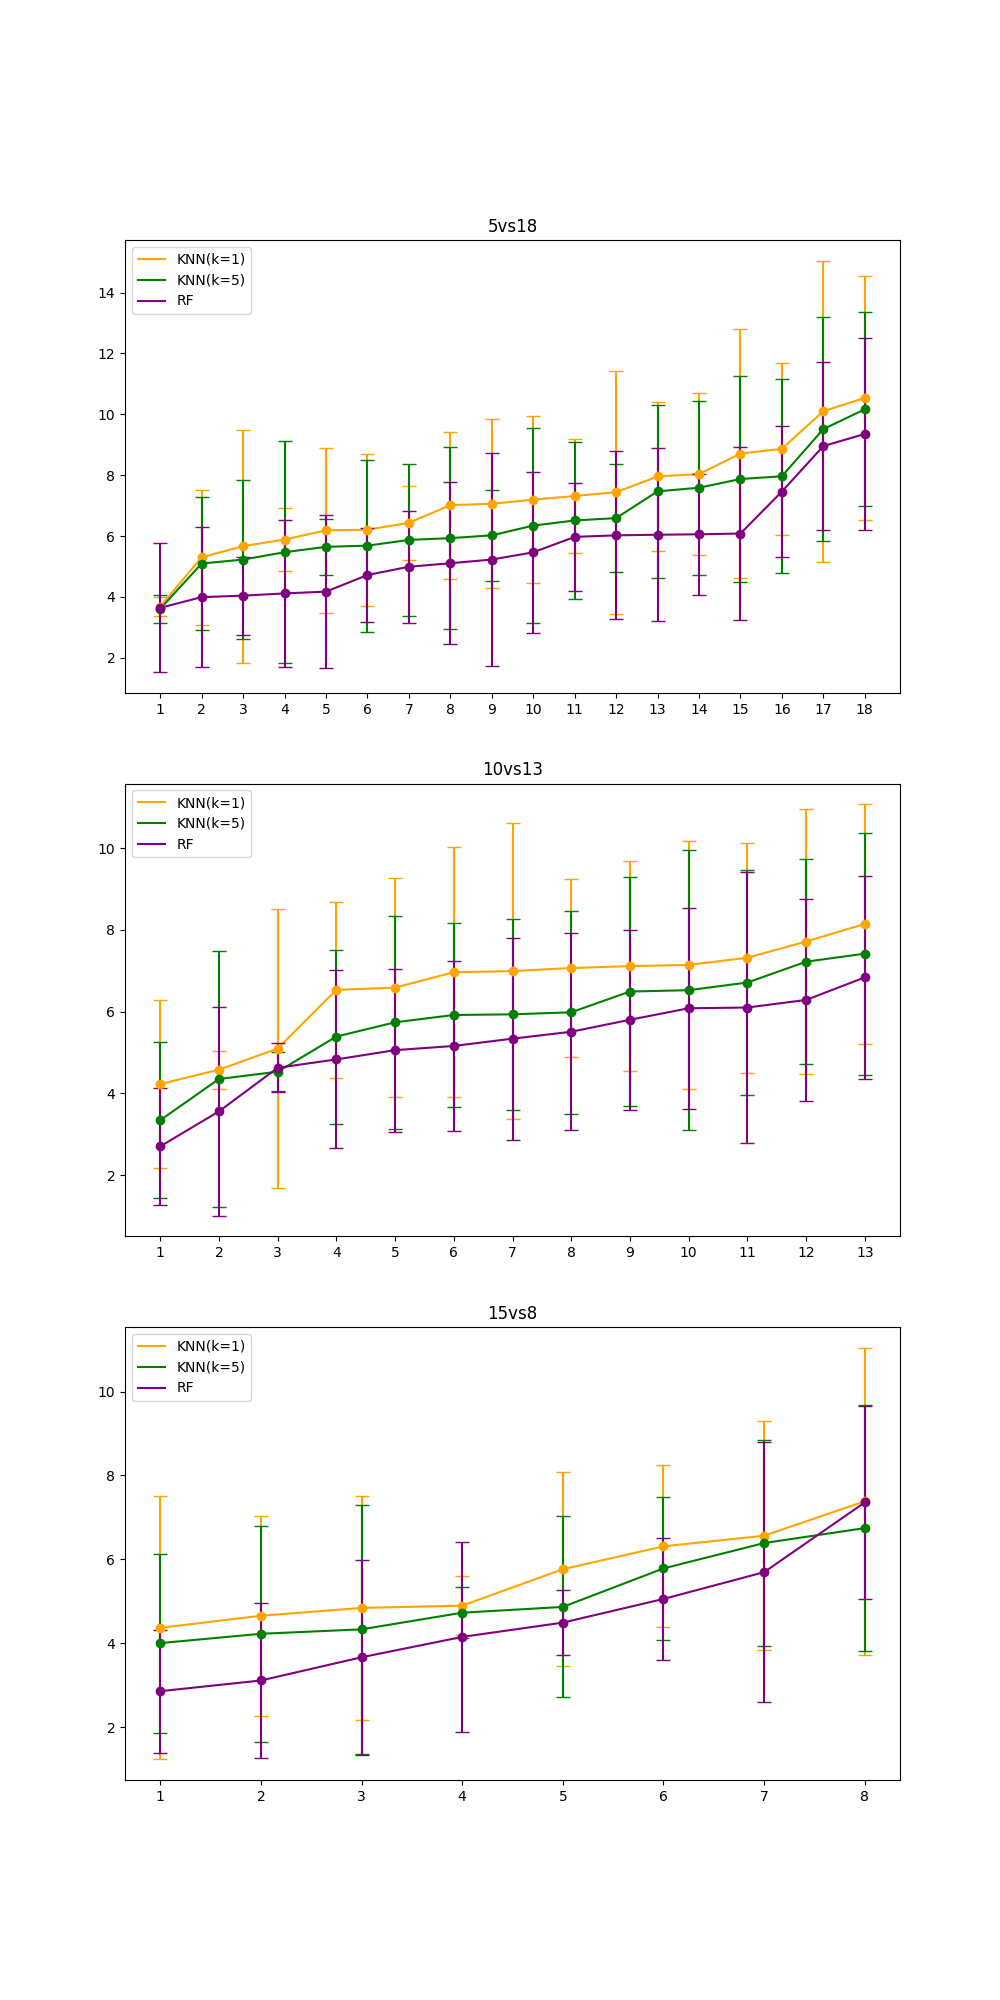
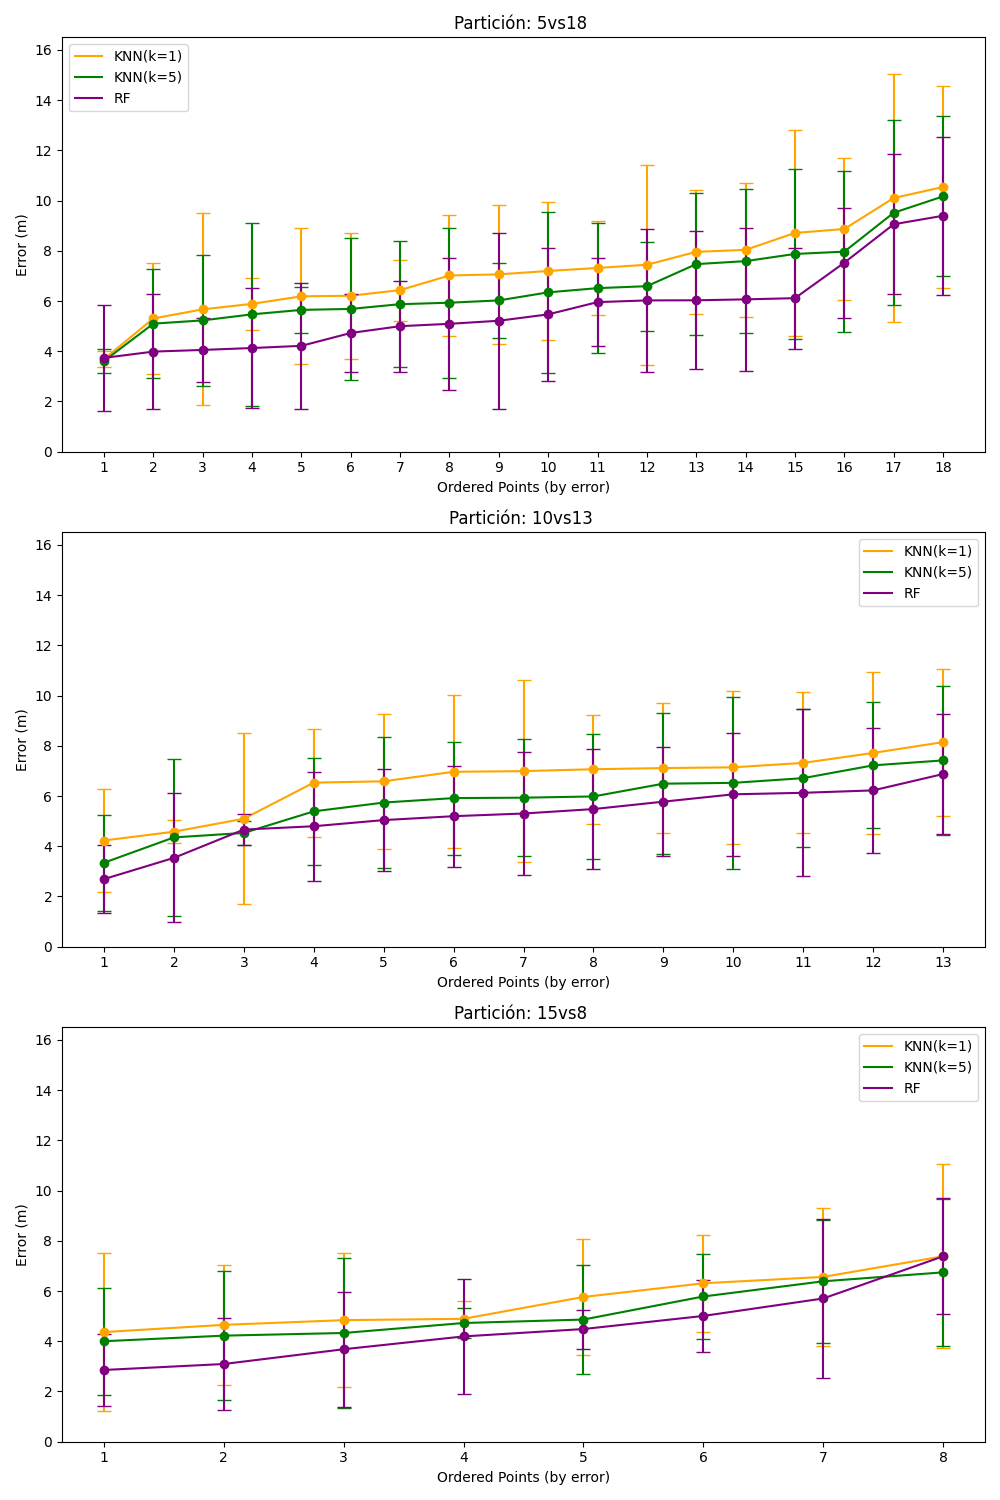
scaled ylim on errorbar metrics plot

diff --git a/models/cGAN_28_28.py b/models/cGAN_28_28.py
@@ -74,6 +74,49 @@ def define_generator(latent_dim=100, n_classes=7):
     model = Model([input_latent, input_label], out, name="generator")
     return model
 
+# def define_discriminator(input_shape=(28, 28, 1), n_classes=7):
+#     input_label = Input(shape=(1,), name="input_label")
+#     lab = Embedding(n_classes, 50)(input_label)
+#     lab = Dense(input_shape[0] * input_shape[1] * 1)(lab)
+#     input_image = Input(shape=input_shape, name="input_image")
+#     flatten_image = Flatten()(input_image)
+#     combined = Concatenate(name="concatenate")([flatten_image, lab])
+#
+#     x = Dense(512)(combined)
+#     x = LeakyReLU(alpha=0.2)(x)
+#
+#     x = Dense(256)(x)
+#     x = LeakyReLU(alpha=0.2)(x)
+#
+#     out = Dense(1, activation="sigmoid", name="out_layer")(x)
+#     model = Model([input_image, input_label], out, name="discriminator")
+#
+#     return model
+#
+#
+# def define_generator(latent_dim=100, n_classes=7):
+#     input_label = Input(shape=(1,), name="input_label")
+#     lab = Embedding(n_classes, 50)(input_label)
+#     lab = Dense(4 * 4 * 64)(lab)
+#
+#     input_latent = Input(shape=(latent_dim,), name="input_noise")
+#     x = Dense(4 * 4 * 64)(input_latent)
+#     x = LeakyReLU(alpha=0.2)(x)
+#
+#     combined = Concatenate(name="concatenate")([x, lab])
+#
+#     x = Dense(7 * 7 * 32)(combined)
+#     x = LeakyReLU(alpha=0.2)(x)
+#
+#     x = Dense(14 * 14 * 16)(x)
+#     x = LeakyReLU(alpha=0.2)(x)
+#
+#     x = Dense(28 * 28 * 1, activation="tanh")(x)
+#     out = Reshape((28, 28, 1))(x)
+#
+#     model = Model([input_latent, input_label], out, name="generator")
+#     return model
+
 
 if __name__ == "__main__":
     get_data = dataloader.DataLoader(data_dir=f"../{constants.data.train.FINAL_PATH}/groundtruth.csv",

diff --git a/positioning/positioning_partitions.py b/positioning/positioning_partitions.py
@@ -189,12 +189,14 @@ def main():
     tabla_metricas_per_coord.to_csv(f"{path_partitions_output}/tablas/tabla_metricas_per_coord.csv", index=False)
 
     aux = tabla_metricas_per_coord.copy()
+    y_max = np.ceil(np.max(aux["Mean Euclid"] + aux["Std Euclid"]))+0.5
+    y_min = np.floor(np.min(aux["Mean Euclid"] - aux["Std Euclid"]))
     colores = ["orange", "green", "purple"]
-    plt.figure(figsize=(10, 20))
+    plt.figure(figsize=(10, 15))
     for idx, partition in enumerate(aux.Partition.unique()):
         aux_partition = aux[aux.Partition == partition]
         plt.subplot(3, 1, idx + 1)
-        plt.title(partition)
+        plt.title(f"Partición: {partition} ")
         for idx_model, model in enumerate(aux_partition.Model.unique()):
             aux_model = aux_partition[aux_partition.Model == model].sort_values(by=["Mean Euclid"])
             xaxis = [x for x in range(1, aux_model.shape[0] + 1)]
@@ -202,7 +204,11 @@ def main():
             plt.errorbar(xaxis, aux_model["Mean Euclid"], yerr=aux_model["Std Euclid"],
                          fmt='o', c=colores[idx_model], capsize=5)
             plt.xticks(xaxis, xaxis)
+        plt.ylim(y_min, y_max)
+        plt.ylabel("Error (m)")
+        plt.xlabel("Ordered Points (by error)")
         plt.legend()
+    plt.tight_layout()
     plt.savefig(f"{path_partitions_output}/plots/errorbar metrics.png")
     plt.show()
 
